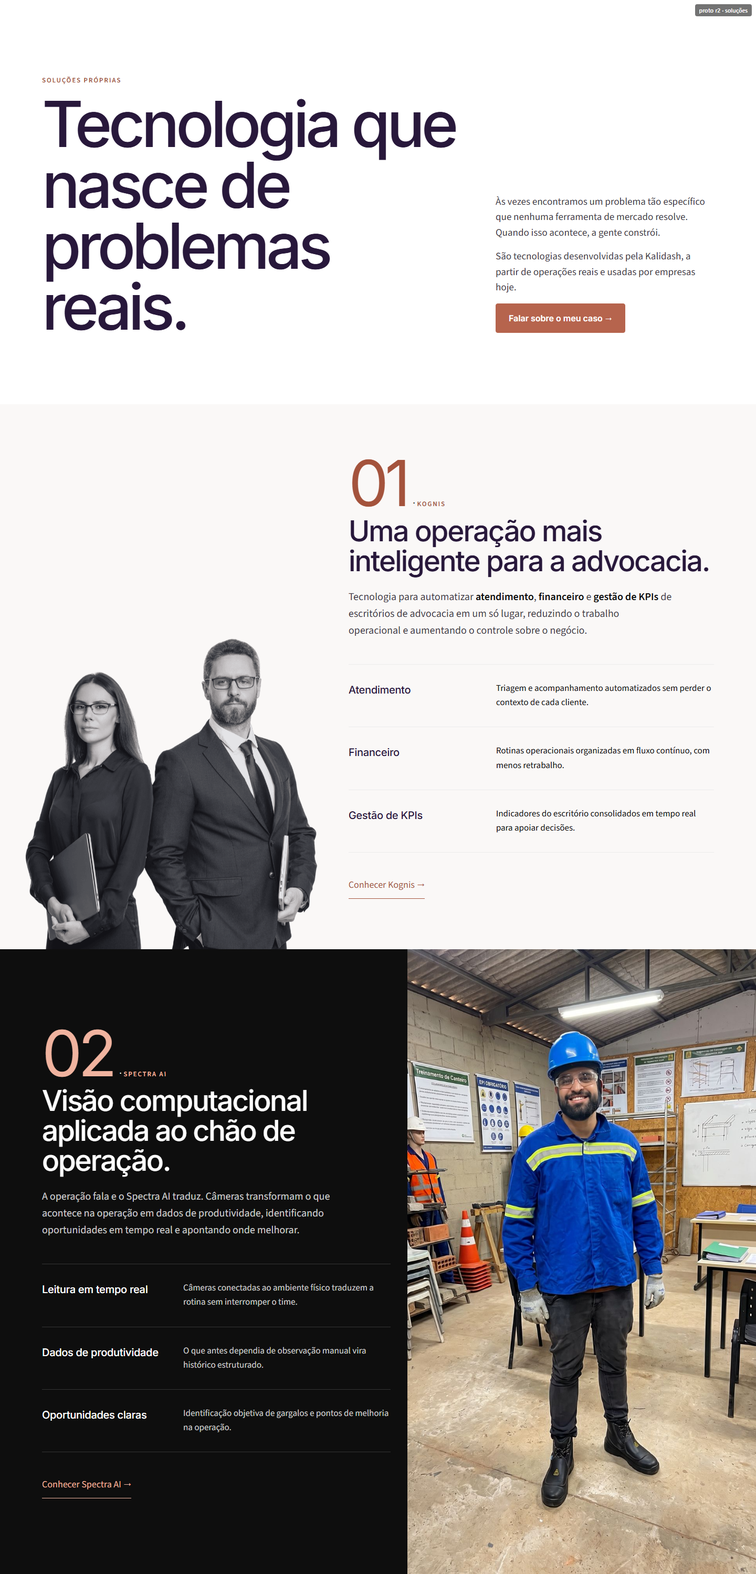
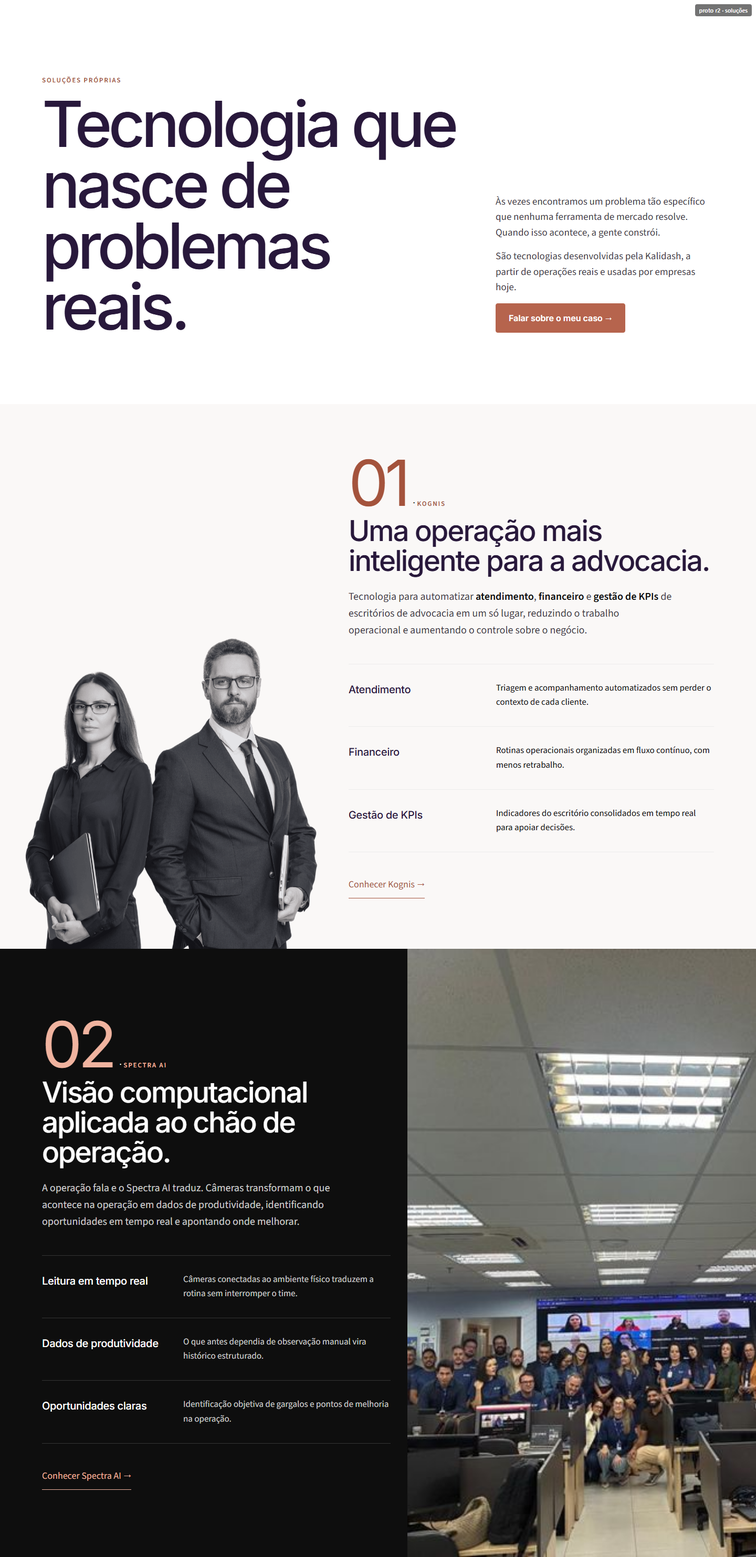
docs(po): D1 rodada 2.1 - slots opcionais sem tela, Spectra com outra foto, historia do Sobre nos refeita

diff --git a/docs/po/design/proto/01-sobre-nos.html b/docs/po/design/proto/01-sobre-nos.html
@@ -20,6 +20,27 @@
   .act .p { display: grid; gap: var(--s-2); align-content: start; }
   .lema { margin-top: var(--s-5); padding-top: var(--s-4); border-top: 1px solid var(--c-rule-strong); text-wrap: balance; }
 
+
+  /* história r2.1: três atos com três layouts diferentes + mosaico grande e irregular */
+  .a1 { display: grid; grid-template-columns: minmax(0,5fr) minmax(0,7fr); gap: clamp(32px,6vw,96px); align-items: center; padding-top: var(--s-5); padding-bottom: var(--pad-y); }
+  .a1-photo { aspect-ratio: 4/5.6; max-height: 760px; box-shadow: var(--shadow-lift); }
+  .a1-copy { display: grid; gap: var(--s-2); }
+  .a1-copy h3 { font-size: clamp(30px,3.4vw,48px); line-height: 1.08; letter-spacing: var(--ls-title); margin-top: var(--s-1); }
+  .a2 { background: var(--c-warm); padding: var(--pad-y) 0; }
+  .a2 h3 { margin-top: var(--s-3); max-width: 20ch; text-wrap: balance; }
+  .a2-cols { display: grid; grid-template-columns: minmax(0,1fr) minmax(0,1fr); gap: var(--s-6); margin-top: var(--s-6); max-width: 960px; }
+  .a3 { padding-top: var(--pad-y); }
+  .a3-copy { display: grid; grid-template-columns: minmax(0,4fr) minmax(0,8fr); gap: var(--s-2) var(--gutter-col); }
+  .a3-copy .meta { grid-column: 1 / -1; }
+  .a3-copy h3 { font-size: clamp(28px,3vw,42px); line-height: 1.1; letter-spacing: var(--ls-title); grid-column: 2; }
+  .a3-copy .body-2 { grid-column: 2; }
+  .mosaic { display: grid; grid-template-columns: repeat(12, 1fr); grid-auto-rows: clamp(70px, 9vw, 130px); gap: 14px; margin-top: var(--s-6); }
+  .m1 { grid-column: 1 / 8; grid-row: 1 / 5; } .m2 { grid-column: 8 / 13; grid-row: 1 / 3; } .m3 { grid-column: 8 / 13; grid-row: 3 / 7; }
+  .m4 { grid-column: 1 / 5; grid-row: 5 / 9; } .m5 { grid-column: 5 / 8; grid-row: 5 / 7; } .m6 { grid-column: 5 / 13; grid-row: 7 / 9; }
+  .cap-fig { margin-top: var(--s-2); }
+  .lema-poster { font-family: var(--f-title); font-weight: 500; font-size: var(--t-poster); line-height: .98; letter-spacing: -0.055em; color: var(--c-title); max-width: 14ch; text-wrap: balance; padding: var(--pad-y) 0; }
+  @media (max-width: 760px) { .a1, .a3-copy, .a2-cols { grid-template-columns: minmax(0,1fr); } .a3-copy h3, .a3-copy .body-2 { grid-column: 1; } .a1-photo { aspect-ratio: 4/5; } .mosaic { grid-auto-rows: 54px; gap: 8px; } }
+
   /* credo: números gigantes, sem hairline */
   .credo { display: grid; grid-template-columns: minmax(0,3fr) minmax(0,9fr); gap: 0 var(--gutter-col); align-items: baseline; margin-top: var(--s-6); }
   .credo .n { font-family: var(--f-title); font-size: var(--t-poster); line-height: 1; letter-spacing: -0.06em; color: var(--c-brand-text); font-variant-numeric: tabular-nums; }
@@ -54,25 +75,44 @@
 </section>
 <section class="wrap intro" data-sec="intro"><p class="lead">Antes de fundar a Kalidash, passamos 10 anos dentro de operações grandes, manuais e de margem apertada. Sabemos o que é ter que entregar resultado com o time e as ferramentas que se tem.</p></section>
 
-<section class="wrap" style="padding-bottom:var(--pad-y)" data-sec="timeline">
-  <div class="caption"><span class="meta">Nossa história</span></div>
-  <div class="collage" role="group">
-    <figure class="photo c1"><img src="../../../../apps/site/public/sobre-nos/ato-01-operacao.jpg" alt="César Germano no chão de operação usando equipamento de proteção"></figure>
-    <figure class="photo c2"><img src="../../../../apps/site/public/sobre-nos/ato-04-ensino.jpg" alt="Formação de executivos e líderes em sala de aula"></figure>
-    <figure class="photo c3"><img src="../../../../apps/site/public/home/evento-palestra.jpg" alt="Palestra executiva para lideranças"></figure>
-    <figure class="photo c4"><img src="../../../../apps/site/public/home/g17-fdc-tech-week-1.jpg" alt="Aula executiva na Fundação Dom Cabral"></figure>
-    <figure class="photo c5"><img src="../../../../apps/site/public/home/evento-sala.jpg" alt="Treinamento corporativo com foco em aplicação de IA"></figure>
-    <figure class="photo c6"><img src="../../../../apps/site/public/home/cooxupe.jpg" alt="Equipe Kalidash na Cooxupé"></figure>
-    <figure class="photo c7"><img src="../../../../apps/site/public/home/g21-cba-premio.jpg" alt="CBA e Kalidash no Prêmio Inovativos"></figure>
-  </div>
-  <p class="small" style="margin-top:var(--s-2)">Do chão de operação à formação executiva</p>
-  <div style="margin-top:var(--s-6)">
-    <article class="act"><div><p class="meta">O chão da operação</p></div><div class="p"><h3>Começamos como estagiários e técnicos na economia real: operações grandes, complexas e manuais.</h3><p class="body-2">Grandes empresas da economia real não são construídas em PowerPoint. São construídas por pessoas, processos complexos e decisões que precisam funcionar todos os dias.</p><p class="body-2">Foi ali que aprendemos que a transformação real não acontece em relatório de consultoria, acontece com quem opera o negócio.</p></div></article>
-    <article class="act"><div><p class="meta">A Kalidash</p></div><div class="p"><h3>Fundamos a Kalidash para levar inteligência e tecnologia ao trabalho real da economia real.</h3><p class="body-2">Conhecemos a dor de tentar implementar tecnologia onde ela mais atrapalha do que ajuda. A única mudança que funciona é a que o time de fato abraça e faz rodar.</p><p class="body-2"><strong>Não para substituir pessoas, mas para devolver a elas o tempo de pensar e produzir.</strong></p></div></article>
-    <article class="act"><div><p class="meta">Hoje</p></div><div class="p"><h3>Levamos cultura de IA e eficiência para operações como ArcelorMittal, CBA, Sicoob, Cooxupé e outras.</h3><p class="body-2">E ensinamos o que aplicamos nas maiores escolas de negócios e tecnologia do país.</p></div></article>
-    <p class="poster-sm lema" style="color:var(--c-title)">Nós ensinamos o que vivemos. E vivemos o que ensinamos.</p>
-  </div>
+<section data-sec="timeline">
+  <div class="wrap"><div class="caption"><span class="meta">Nossa história</span></div></div>
+
+  <!-- ato 1: foto de operação em retrato, escala grande, texto ao lado -->
+  <article class="wrap a1">
+    <figure class="photo a1-photo"><img src="../../../../apps/site/public/sobre-nos/ato-01-operacao.jpg" alt="César Germano no chão de operação usando equipamento de proteção"></figure>
+    <div class="a1-copy"><p class="meta">O chão da operação</p>
+      <h3>Começamos como estagiários e técnicos na economia real: operações grandes, complexas e manuais.</h3>
+      <p class="body-2">Grandes empresas da economia real não são construídas em PowerPoint. São construídas por pessoas, processos complexos e decisões que precisam funcionar todos os dias.</p>
+      <p class="body-2">Foi ali que aprendemos que a transformação real não acontece em relatório de consultoria, acontece com quem opera o negócio.</p></div>
+  </article>
+
+  <!-- ato 2: sem foto; a tese em escala de cartaz, parágrafos em duas colunas -->
+  <article class="a2"><div class="wrap">
+    <p class="meta">A Kalidash</p>
+    <h3 class="poster-sm">Fundamos a Kalidash para levar inteligência e tecnologia ao trabalho real da economia real.</h3>
+    <div class="a2-cols"><p class="body-2">Conhecemos a dor de tentar implementar tecnologia onde ela mais atrapalha do que ajuda. A única mudança que funciona é a que o time de fato abraça e faz rodar.</p>
+      <p class="body-2"><strong>Não para substituir pessoas, mas para devolver a elas o tempo de pensar e produzir.</strong></p></div>
+  </div></article>
+
+  <!-- ato 3: texto curto + mosaico grande e irregular -->
+  <article class="wrap a3">
+    <div class="a3-copy"><p class="meta">Hoje</p>
+      <h3>Levamos cultura de IA e eficiência para operações como ArcelorMittal, CBA, Sicoob, Cooxupé e outras.</h3>
+      <p class="body-2">E ensinamos o que aplicamos nas maiores escolas de negócios e tecnologia do país.</p></div>
+    <div class="mosaic" role="group">
+      <figure class="photo m1"><img src="../../../../apps/site/public/home/g21-cba-premio.jpg" alt="CBA e Kalidash no Prêmio Inovativos"></figure>
+      <figure class="photo m2"><img src="../../../../apps/site/public/sobre-nos/ato-04-ensino.jpg" alt="Formação de executivos e líderes em sala de aula"></figure>
+      <figure class="photo m3"><img src="../../../../apps/site/public/home/evento-palestra.jpg" alt="Palestra executiva para lideranças"></figure>
+      <figure class="photo m4"><img src="../../../../apps/site/public/home/g17-fdc-tech-week-1.jpg" alt="Aula executiva na Fundação Dom Cabral"></figure>
+      <figure class="photo m5"><img src="../../../../apps/site/public/home/evento-sala.jpg" alt="Treinamento corporativo com foco em aplicação de IA"></figure>
+      <figure class="photo m6"><img src="../../../../apps/site/public/home/cooxupe.jpg" alt="Equipe Kalidash na Cooxupé"></figure>
+    </div>
+    <p class="small cap-fig">Do chão de operação à formação executiva</p>
+  </article>
+  <div class="wrap"><p class="lema-poster">Nós ensinamos o que vivemos. E vivemos o que ensinamos.</p></div>
 </section>
+
 
 <section class="section warm" data-sec="beliefs"><div class="wrap">
   <div class="caption"><span class="meta">No que acreditamos</span></div>

diff --git a/docs/po/design/proto/02-kognis.html b/docs/po/design/proto/02-kognis.html
@@ -12,7 +12,11 @@
   .hero .sup { margin-top: var(--s-3); }
   .hero .btn { margin-top: var(--s-4); }
   .hero .cut { display: block; width: 118%; max-width: none; margin-left: -8%; margin-bottom: -1px; height: min(78vh, 760px); object-fit: contain; object-position: 60% 100%; }
-  .nums { padding: var(--s-7) 0; }
+  .nums { padding: var(--s-7) 0; position: relative; overflow: hidden; }
+  .nums .bg { position: absolute; inset: 0; width: 100%; height: 100%; object-fit: cover; object-position: 78% 40%; opacity: .6; }
+  .nums::after { content: ""; position: absolute; inset: 0; background: linear-gradient(90deg, #0e0e0e 38%, rgba(14,14,14,.15) 100%); }
+  .nums .wrap { position: relative; z-index: 1; }
+  .opt-slot.w169 { aspect-ratio: 16/9; } .opt-slot.p45 { aspect-ratio: 4/5; }
   .nums ul { display: grid; grid-template-columns: 1fr 1fr; gap: var(--s-6) var(--s-6); }
   .nums .fig2 { font-family: var(--f-title); font-weight: 500; font-size: var(--t-poster); line-height: 1; letter-spacing: -0.06em; font-variant-numeric: tabular-nums; white-space: nowrap; }
   .nums .small { margin-top: var(--s-2); font-size: 18px; max-width: 28ch; }
@@ -71,7 +75,7 @@
   <img class="cut" src="../../../../apps/site/public/kognis-heroes.png" alt="Kognis — Escritório de Advocacia Inteligente">
 </section>
 
-<section class="band-ink nums" data-sec="proofbar"><div class="wrap">
+<section class="band-ink nums" data-sec="proofbar"><img class="bg" src="../../../../apps/site/public/kalidash-motion-statue.jpg" alt="" aria-hidden="true"><div class="wrap">
   <ul aria-label="Resultados">
     <li><p class="fig2">8 horas</p><p class="small">semanais a menos em tarefas operacionais</p></li>
     <li><p class="fig2">3x</p><p class="small">mais rápido na resposta ao cliente no WhatsApp</p></li>
@@ -82,8 +86,8 @@
 
 <section class="section wrap" data-sec="cards-1">
   <div class="caption"><span class="meta">Soluções para escritórios de advocacia</span></div>
-  <h2 class="h2 head" style="max-width:24ch">Três problemas resolvidos. Uma plataforma.</h2>
-  <div class="slot w169 lift" data-slot="K1" data-label="K1 · tela real da plataforma (visão geral com indicadores). 16:9" style="margin-bottom:var(--head-gap)"></div>
+  <h2 class="poster-sm head" style="max-width:14ch;color:var(--c-title)">Três problemas resolvidos. Uma plataforma.</h2>
+  <div class="opt-slot w169 lift" data-slot="K1" data-label="K1 · encaixe opcional: tela real da plataforma, 16:9" style="margin-bottom:var(--head-gap)"></div>
   <ul class="ruled tbl">
     <li><span class="num">01</span><h3>Agentes de IA</h3><p>Agentes que vendem e atendem pelo WhatsApp, 24 horas por dia. Qualificam leads, agendam reuniões e respondem seus clientes sobre o andamento dos processos na hora.</p><p class="ex">Central de atendimento com histórico de conversas, filas e painel de performance.</p></li>
     <li><span class="num">02</span><h3>Conciliação Bancária</h3><p>Conecta direto nos seus bancos. Contas a pagar e receber se conciliam sozinhas, e a divisão de honorários entre sócios sai sem discussão e sem erro.</p><p class="ex">Você abre o painel e o financeiro já está fechado.</p></li>
@@ -93,7 +97,7 @@
 
 <section class="section warm" data-sec="cards-2"><div class="wrap sticky2">
   <div class="left"><div class="caption"><span class="meta">Atendimento Inteligente 24h</span></div><h2 class="h2">Seu escritório atendendo 24h. Sem contratar ninguém.</h2>
-    <div class="slot p45" data-slot="K2" data-label="K2 · tela real do atendimento no WhatsApp (fila + conversa). 4:5" style="margin-top:var(--s-5);max-width:300px"></div></div>
+    <div class="opt-slot p45" data-slot="K2" data-label="K2 · encaixe opcional: tela real do atendimento, 4:5" style="margin-top:var(--s-5);max-width:300px"></div></div>
   <div>
     <div class="item"><h3>Venda e pré-atendimento</h3><p class="body-2">Qualifica quem chega pelo WhatsApp e já agenda a reunião diretamente pra você.</p></div>
     <div class="item"><h3>Atendimento ao cliente</h3><p class="body-2">O cliente pergunta do processo dele e recebe a resposta com dados reais na hora.</p></div>
@@ -104,7 +108,7 @@
 <section class="section wrap" data-sec="cards-3">
   <div class="caption"><span class="meta">Controle Financeiro</span></div>
   <h2 class="h3 head" style="max-width:32ch;font-size:var(--t-h3)">Seu financeiro fechando sozinho. Sem erro, sem retrabalho.</h2>
-  <div class="slot w169" data-slot="K3" data-label="K3 · tela real do painel financeiro (conciliação e honorários). 16:9" style="margin-bottom:var(--head-gap)"></div>
+  <div class="opt-slot w169" data-slot="K3" data-label="K3 · encaixe opcional: tela real do painel financeiro, 16:9" style="margin-bottom:var(--head-gap)"></div>
   <div class="idx">
     <h3>Conciliação automática</h3><p>Conecta com os principais bancos do Brasil. Lançamentos batem com o sistema sem você precisar fazer nada.</p>
     <h3>Divisão de honorários</h3><p>Define as regras uma vez. A divisão entre sócios sai certinha e sem discussão, caso a caso.</p>
@@ -133,4 +137,5 @@
     <details><summary>Preciso entender de tecnologia para usar?</summary><p>Não. A plataforma foi feita pra quem quer resultado, não pra quem entende de TI. Se você usa WhatsApp, sabe usar o que a gente entrega.</p></details>
   </div>
 </div></section>
+<script>if(location.hash==="#com-tela")document.body.classList.add("com-tela")</script>
 </body></html>

diff --git a/docs/po/design/proto/06-spectra.html b/docs/po/design/proto/06-spectra.html
@@ -13,7 +13,7 @@
   .hero .btn { margin-top: var(--s-4); }
   .hero .meta { color: var(--c-on-band-brand); }
   .hero .bleed-img { border-radius: 0; min-height: 520px; }
-  .hero .bleed-img img { object-position: 50% 25%; }
+  .hero .bleed-img img { object-position: 30% 88%; }
 
   /* três capacidades em escala de cartaz; ao passar/focar, as outras recuam (opacity 160ms) */
   .poster-list li { padding: var(--s-3) 0; display: grid; grid-template-columns: minmax(0,7fr) minmax(0,5fr); gap: var(--gutter-col); align-items: end; border-top: 2px solid var(--c-title); transition: opacity 160ms ease; }
@@ -22,6 +22,7 @@
   .poster-list:hover li:not(:hover), .poster-list:focus-within li:not(:focus-within) { opacity: .45; }
   .poster-list li { outline: none; }
   .head { margin-bottom: var(--head-gap); }
+  .opt-slot.w169 { aspect-ratio: 16/9; }
   @media (max-width: 760px) { .hero, .poster-list li { grid-template-columns: minmax(0,1fr); } .hero .copy { padding: var(--s-6) 24px; } .hero .bleed-img { min-height: 420px; } }
 </style></head>
 <body>
@@ -35,17 +36,18 @@
     <p class="sup">Leitura visual em tempo real sem interromper o time e sem alterar o fluxo de trabalho.</p>
     <a class="btn" href="#">Conhecer Spectra AI →</a>
   </div>
-  <figure class="bleed-img"><img src="../../../../apps/site/public/sobre-nos/ato-01-operacao.jpg" alt="Spectra AI visão computacional na operação"></figure>
+  <figure class="bleed-img"><img src="../../../../apps/site/public/home/g10-agir.jpg" alt="Spectra AI visão computacional na operação"></figure>
 </section>
 
 <section class="section wrap" data-sec="cards">
   <div class="caption"><span class="meta">O que faz</span></div>
   <h2 class="h3 head" style="font-size:var(--t-h3);max-width:34ch">Transforme o que acontece na operação em dados objetivos.</h2>
-  <div class="slot w169 lift" data-slot="S1" data-label="S1 · imagem real do Spectra: frame de câmera com a leitura sobreposta OU painel de produtividade. 16:9" style="margin-bottom:var(--head-gap)"></div>
+  <div class="opt-slot w169 lift" data-slot="S1" data-label="S1 · encaixe opcional: imagem real do Spectra (frame de câmera com a leitura, ou painel), 16:9" style="margin-bottom:var(--head-gap)"></div>
   <ul class="poster-list">
     <li tabindex="0"><h3>Leitura em tempo real</h3><p>Câmeras conectadas ao ambiente físico traduzem a rotina sem interromper o time.</p></li>
     <li tabindex="0"><h3>Dados de produtividade</h3><p>O que antes dependia de observação manual vira histórico estruturado.</p></li>
     <li tabindex="0"><h3>Oportunidades claras</h3><p>Identificação objetiva de gargalos e pontos de melhoria na operação.</p></li>
   </ul>
 </section>
+<script>if(location.hash==="#com-tela")document.body.classList.add("com-tela")</script>
 </body></html>

diff --git a/docs/po/design/proto/10-solucoes.html b/docs/po/design/proto/10-solucoes.html
@@ -35,7 +35,7 @@
   .o2 .link { color: var(--c-on-band-brand); border-color: var(--c-on-band-brand); }
   .o2 .meta { color: var(--c-on-band-brand); }
   .o2 .bleed-img { min-height: 640px; border-radius: 0; }
-  .o2 .bleed-img img { object-position: 50% 30%; }
+  .o2 .bleed-img img { object-position: 30% 100%; }
   .marker { display: block; } .marker .idx-num { margin-right: var(--s-1); }
   .idx-num { font-family: var(--f-title); font-size: var(--t-poster); line-height: .9; letter-spacing: -0.06em; color: var(--c-brand-text); }
   .o2 .idx-num { color: var(--c-on-band-brand); }
@@ -64,6 +64,6 @@
     <p class="body-2 tx">A operação fala e o Spectra AI traduz. Câmeras transformam o que acontece na operação em dados de produtividade, identificando oportunidades em tempo real e apontando onde melhorar.</p>
     <ul class="ruled feat"><li><h3>Leitura em tempo real</h3><p>Câmeras conectadas ao ambiente físico traduzem a rotina sem interromper o time.</p></li><li><h3>Dados de produtividade</h3><p>O que antes dependia de observação manual vira histórico estruturado.</p></li><li><h3>Oportunidades claras</h3><p>Identificação objetiva de gargalos e pontos de melhoria na operação.</p></li></ul>
     <a class="link" href="#">Conhecer Spectra AI →</a></div>
-  <figure class="bleed-img"><img src="../../../../apps/site/public/sobre-nos/ato-01-operacao.jpg" alt="Spectra AI visão computacional na operação"></figure>
+  <figure class="bleed-img"><img src="../../../../apps/site/public/home/g10-agir.jpg" alt="Spectra AI visão computacional na operação"></figure>
 </div></section>
 </body></html>

diff --git a/docs/po/design/proto/proto.css b/docs/po/design/proto/proto.css
@@ -62,3 +62,8 @@ a { color: inherit; }
 .slot { position: relative; display: grid; place-items: center; border: 1px dashed var(--c-rule-strong); border-radius: var(--r-surface); background: repeating-linear-gradient(135deg, #fff 0 12px, var(--c-warm) 12px 24px); color: var(--c-text-3); font: 600 13px/1.4 var(--f-title); text-align: center; padding: var(--s-3); }
 .slot::after { content: attr(data-label); max-width: 36ch; }
 .slot.w169 { aspect-ratio: 16/9; } .slot.w1610 { aspect-ratio: 16/10; } .slot.p45 { aspect-ratio: 4/5; }
+
+/* slot opcional: escondido por padrão ("sem tela"); com #com-tela mostra um bloco NEUTRO de encaixe (não é tela real) */
+.opt-slot { display: none; }
+body.com-tela .opt-slot { display: grid; border: 1px solid var(--c-rule-strong); background: #e9e6e3; border-radius: var(--r-surface); place-items: center; color: var(--c-text-3); font: 600 13px/1.4 var(--f-title); text-align: center; padding: var(--s-3); }
+body.com-tela .opt-slot::after { content: attr(data-label); max-width: 34ch; }

diff --git a/docs/po/design/proto/estados-spectra.html b/docs/po/design/proto/estados-spectra.html
@@ -1,0 +1,1 @@
+<body style="margin:0;background:#888;display:grid;grid-template-columns:1fr 1fr;gap:12px;font:600 20px system-ui;color:#fff"><div><p style="margin:8px">SEM TELA (estado inicial, vai ao ar assim)</p><img src="../depois/06-spectra-sem-tela-1440.png" style="width:100%;display:block"></div><div><p style="margin:8px">COM TELA (encaixe opcional; bloco cinza = exemplo, NÃO é tela real)</p><img src="../depois/06-spectra-com-tela-1440.png" style="width:100%;display:block"></div></body>

diff --git a/docs/po/design/proto/estados-kognis.html b/docs/po/design/proto/estados-kognis.html
@@ -1,0 +1,1 @@
+<body style="margin:0;background:#888;display:grid;grid-template-columns:1fr 1fr;gap:12px;font:600 20px system-ui;color:#fff"><div><p style="margin:8px">SEM TELA (estado inicial, vai ao ar assim)</p><img src="../depois/02-kognis-sem-tela-1440.png" style="width:100%;display:block"></div><div><p style="margin:8px">COM TELA (encaixe opcional; bloco cinza = exemplo, NÃO é tela real)</p><img src="../depois/02-kognis-com-tela-1440.png" style="width:100%;display:block"></div></body>

diff --git a/docs/po/design/01-institucionais.md b/docs/po/design/01-institucionais.md
@@ -22,13 +22,13 @@
 
 | Página | Assinatura | Sequência de padrões (nenhum igual ao vizinho) | Fotos grandes (arquivo · escala · corte) | Faixa de cor e função | Micro-movimento |
 |---|---|---|---|---|---|
-| **Sobre nós** | **Foto dos fundadores sangrando a tela**, "Já estivemos do seu lado da mesa." a 128px sobreposto (véu de baixo para cima) | bleed → texto 5/7 → colagem + atos em régua (**a única**) → credo em **números gigantes** (warm) → foto do time 8/12 + coluna → faixa escura com números de 168px | `founders-studio.jpg` 100vw × min(88vh, 780px), corte 50% 30% · `time-kalidash.jpg` 8/12 em 4:3 · colagem das 7 fotos | escura só na prova (`+10 mil`, `170`, `Parceira`, `Finalista`): é a credencial | foto do hero desliza ±32px com `scale(1.12)` fixo, ligada à rolagem (`cover 0–100%`); sem duração própria |
+| **Sobre nós** | **Foto dos fundadores sangrando a tela**, "Já estivemos do seu lado da mesa." a 128px sobreposto (véu de baixo para cima) | bleed → texto 5/7 → **história em 3 layouts diferentes** (ato 1: retrato 5/12 + texto; ato 2: tese em cartaz sobre warm, sem foto; ato 3: mosaico grande e irregular) → lema de cartaz → credo em **números gigantes** (warm) → foto do time 8/12 + coluna → faixa escura com números de 168px (nenhuma régua na página) | `founders-studio.jpg` 100vw × min(88vh, 780px), corte 50% 30% · `ato-01-operacao.jpg` 5/12 em 4:5,6 (ato 1) · mosaico de 6 fotos em 12 colunas, 130px por linha, m1 de 7 col × 4 linhas · `time-kalidash.jpg` 8/12 em 4:3 | escura só na prova (`+10 mil`, `170`, `Parceira`, `Finalista`): é a credencial | foto do hero desliza ±32px com `scale(1.12)` fixo, ligada à rolagem (`cover 0–100%`); sem duração própria |
 | **AI Culture** | **Faixa de foto sangrando com "Dois formatos…" a 128px** + números de cartaz sobre branco (sem faixa) | hero contido → números (`+10 mil`, `170` a 168px, filete de 2px) → warm com lema → passos em linha → bleed + formatos em linhas | `evento-sala.jpg` 4:5 (contida, hero) · `metodo-reuniao.jpg` 100vw × min(72vh, 640px), corte 50% 45% | nenhuma faixa de cor; `warm` só na pausa do "por quê" | linha dos passos desenha (`scaleX .35→1`, `entry 10% – cover 45%`) |
 | **Advisory** | **Faixa quente com o lema** "Não entregamos um plano. Acompanhamos o que acontece depois dele." a 128px | hero (foto 7/12 à direita) → "E agora?" → **faixa quente** → coluna sticky + frases de 44px → rituais em números gigantes (warm) → passos em linha → critérios em régua (**a única**, warm) → FAQ | `metodo-reuniao.jpg` 7/12 sangrando à direita, min-height min(86vh, 720px), corte 62% 50% | quente (`#b6644d`) só no lema: é a tese da página | o lema sobe 40px→0 na entrada (`entry 0–80%`) |
 | **Execução** | **Índice em escala de cartaz** (os 5 nomes a 88px) + faixa escura com `+100 · 170 · 12 horas` a 128px | hero (retrato sangrando à direita) → lema "É aí que a Kalidash entra." a 128px → índice → passos em linha → faixa escura → caso com foto sangrando à esquerda → régua com os 2 produtos (**a única**) | `front-3-entrega.jpg` 5/12 sangrando · `g21-cba-premio.jpg` 7/12 em 4:3 sangrando à esquerda | escura nos números: é a prova | a foto do caso faz zoom `1.08→1` (`entry 0 – cover 55%`) |
 | **Soluções** | **Dois painéis cheios, um claro e um escuro:** os advogados recortados em pé na base do painel claro; a foto do Spectra em 6/12 sangrando no escuro | manchete 128px (abertura à la Mistral) → painel claro (Kognis) → painel escuro (Spectra) | `kognis-heroes.png` ~800px de altura, apoiado na borda · `ato-01-operacao.jpg` 6/12 sangrando, corte 50% 30% | escura só no Spectra (produto de chão de fábrica); claro (`warm`) no Kognis | o recorte dos advogados sobe 40px→0 na entrada |
-| **Kognis** | **Os advogados em pé sobre a faixa escura** com os 4 números a 128px (`8 horas`, `3x`, `+90%`, `100%`) | hero (recorte) → faixa escura → tabela em régua (**a única**) → coluna sticky + itens (warm) → índice de cartaz (financeiro) → passos em linha (warm) → FAQ com título sticky | `kognis-heroes.png` ~760px de altura sobre o filete da faixa + espaços **K1–K3 reservados** (§4.8) | escura nos números: é a prova | linha dos passos desenha (`scaleX .35→1`) |
-| **Spectra** | **Tela dividida em altura cheia:** texto sobre escuro à esquerda, a foto real do chão de operação ocupando a metade direita | split → [S1 reservado] → lista de 3 capacidades em cartaz (56–88px) | `ato-01-operacao.jpg` 50vw × min(92vh, 820px), corte 50% 25% | escura no hero: é a abertura | ao passar/focar um item, os outros recuam a `opacity .45` em 160ms (hover/foco; não depende de rolagem) |
+| **Kognis** | **Os advogados em pé sobre a faixa escura** com os 4 números a 128px (`8 horas`, `3x`, `+90%`, `100%`) | hero (recorte) → faixa escura → título de cartaz + tabela em régua (**a única**) → coluna sticky + itens (warm) → índice de cartaz (financeiro) → passos em linha (warm) → FAQ com título sticky | `kognis-heroes.png` ~760px de altura sobre o filete da faixa · `kalidash-motion-statue.jpg` (busto em preto e branco, arte da marca que já existe em `public/`) 100% da faixa, à direita, sob véu; **K1–K3 são opcionais e não aparecem sem tela** (§4.8) | escura nos números: é a prova | linha dos passos desenha (`scaleX .35→1`) |
+| **Spectra** | **Tela dividida em altura cheia:** texto sobre escuro à esquerda, a foto real do chão de operação ocupando a metade direita | split → lista de 3 capacidades em cartaz (56–88px); [S1 opcional, só com imagem] | **`g10-agir.jpg`** (sala de operação com telas, hoje na Home) 50vw × min(92vh, 820px), corte 30% 88%; o retrato do operário **sai** da página (ver §0.5) | escura no hero: é a abertura | ao passar/focar um item, os outros recuam a `opacity .45` em 160ms (hover/foco; não depende de rolagem) |
 
 Escala de títulos usada (cada página tem os três níveis): cartaz = h1 de hero, lemas, números e nomes do índice; seção = `--t-h2` nos títulos principais; subordinado = `--t-h3` em seções de apoio (a abertura do credo no Sobre nós, "O que faz" no Spectra, o financeiro no Kognis, o problema na Execução).
 
@@ -38,15 +38,23 @@ Critério: *"se eu rolasse esta página por 10 segundos, algo me pararia?"* — 
 
 | Página | Antes | Depois | Por quê (e o que ainda segura a nota) |
 |---|---|---|---|
-| Sobre nós | 3 | **7,5** | Hero sangrado com o rosto dos fundadores, credo e prova em números enormes. Segura: a colagem de 7 fotos continua pequena; os atos em régua ainda são texto sobre branco. |
+| Sobre nós | 3 | **8** | Hero sangrado, história em três layouts (retrato, tese em cartaz, mosaico grande), credo e prova em números enormes. Segura: o ato 2 é só tipo; a foto do ato 1 ocupa pouco depois do hero. |
 | AI Culture | 3 | **6,5** | Faixa de foto com título de cartaz e números de 168px. Segura: o hero continua contido e é a página com mais branco; só uma foto grande. |
 | Advisory | 2 | **7,5** | A faixa quente é o momento memorável da página; numerais de 128px nos rituais. Segura: sem produto ou número real; sete seções de tipo. |
 | Execução | 3 | **7** | Índice de cartaz e faixa escura com `12 horas`. Segura: o hero tem uma foto de palco sem relação direta com "execução"; a régua final é fria. |
 | Soluções | 2 | **7,5** | Dois painéis cheios, claro/escuro, produto em escala grande. Segura: o painel escuro mostra um operário, não o produto. |
-| Kognis | 2 | **6** | Advogados sobre a faixa escura e números de 128px. Segura: **os espaços K1–K3 estão vazios** (sem telas) e o miolo da página é tipo sobre branco; sem as telas, o teto é 6–6,5. Com as telas reais, estimo 7,5–8 (palpite). |
-| Spectra | 2 | **6,5** | Tela dividida com foto de altura cheia, lista em cartaz com hover. Segura: **S1 vazio**, página curta, uma foto só (a mesma da Soluções e do Sobre nós). |
+| Kognis | 2 | **6,5** | Advogados sobre a faixa escura com o busto da marca atrás dos números de 128px; título de seção em cartaz. Sem caixas vazias: **a versão sem tela é o layout principal**. Segura: o miolo continua tipo sobre branco/warm; só uma foto de pessoas. Com telas reais (K1–K3), estimo 7,5–8 (palpite). |
+| Spectra | 2 | **6,5** | Tela dividida com foto de altura cheia (sala de operação), lista em cartaz com hover. Sem caixa vazia. Segura: página curta, só uma foto, sem número nem produto à vista; sem S1, o teto é este. |
 
 Limites desta nota: eu mesmo a atribuo, a partir de PNGs estáticos; **não vi o movimento acontecendo** (scroll-driven animations só testadas por estarem declaradas e por não quebrarem a captura), e nenhuma página foi vista no navegador real do dono.
+
+### 0.5 Rodada 2.1 (PO 8,5 → 9): três correções
+
+**1. Kognis e Spectra sem caixas tracejadas.** A versão **sem tela** é o layout principal e a que vai ao ar; a tela é um **slot opcional** que, se existir, entra sem remontar a página. Os dois estados estão em PNG: [estados-kognis.png](comparativo/estados-kognis.png) e [estados-spectra.png](comparativo/estados-spectra.png) (esquerda: sem tela; direita: com tela, com um bloco cinza neutro que é só **exemplo de encaixe, não é tela real**). O Kognis ganha peso sem tela por: advogados em escala grande sobre a faixa de números, busto da marca (`kalidash-motion-statue.jpg`, já em `public/`) atrás dos números, título de seção em cartaz (88px), tabela e índice em tipo grande. Contrato do slot em §4.8.
+
+**2. Spectra sem o retrato do operário.** O hero do Spectra reutilizava `ato-01-operacao.jpg`, que também está na colagem do Sobre nós e na oferta de Soluções. Proponho **`home/g10-agir.jpg`**: foto real de uma sala de operação com fileiras de estações e um painel grande, já usada na Home (a Agir é cliente). Mostra "o chão de operação" com telas e câmeras no teto, o contexto onde o Spectra roda, e não repete rosto nenhum de outra página. Tratamento: metade direita da tela dividida, corte à esquerda-baixo (30% 88%) para pegar as pessoas e o painel e deixar o forro de fora. **Decisões para o PO:** (a) trocar `src` do hero do Spectra (o checklist 3.1 só permite trocar imagem com decisão do PO); mantenho o **mesmo `alt`** ("Spectra AI visão computacional na operação"), então nenhuma string muda; (b) se o PO preferir não trocar, o fallback é manter `ato-01-operacao.jpg` com **recorte fechado** no capacete e no quadro de EPI (zoom ~2,2x, 4:5, sem o corpo inteiro), que deixa de repetir o retrato. O arquivo `ato-01` fica só no ato 1 do Sobre nós. Em `/solucoes` a oferta 02 usa a mesma `g10-agir` (protótipo `10-solucoes` alinhado). **Atenção:** em `pages.ts` as ofertas de Soluções **não têm imagem**; as duas fotos do protótipo (recorte do Kognis e `g10-agir`) são mídia nova na página e precisam de `alt`; sugiro reaproveitar os alts que já existem para cada produto ("Kognis — Escritório de Advocacia Inteligente" e "Spectra AI visão computacional na operação"), sem texto novo.
+
+**3. Sobre nós: "Nossa história".** O mosaico pequeno + 3 atos em régua virou três layouts: **ato 1** retrato de operação em 5/12 (4:5,6, sombra de foto-herói) com o texto ao lado; **ato 2** a tese em escala de cartaz sobre fundo warm, parágrafos em duas colunas, sem foto; **ato 3** texto curto à direita e **mosaico grande e irregular** (6 fotos em 12 colunas, a do prêmio CBA em 7×4, as outras em alturas e larguras diferentes), com a legenda "Do chão de operação à formação executiva"; fecha o lema em escala de cartaz (128px, 4 linhas). Nenhuma régua restante na página. **Nota de implementação:** a ordem de `mosaic.items` decide a distribuição (item 1 = ato 1, itens 2–7 = mosaico do ato 3), mudança só de estrutura. Capturas: [depois/01-historia-1440.png](depois/01-historia-1440.png) e [depois/01-historia-390.png](depois/01-historia-390.png).
 
 ### 0.4 Auditoria dos protótipos r2 contra `tells.md`
 
@@ -279,7 +287,7 @@ Risco: o botão do hero diz "Conhecer Spectra AI" mas leva ao diagnóstico (mesm
 
 ### 4.8 Espaços de objeto reservados (Kognis e Spectra)
 
-Decisão do PO (31/10): o dono ainda não tem os prints (pediu à Carol). A direção **reserva o lugar e descreve o que entra**; nada é inventado. Nos protótipos ([02-kognis](proto/02-kognis.html), [06-spectra](proto/06-spectra.html)) cada espaço é um bloco tracejado com o rótulo gerado por CSS (`data-label`), que **não é copy** e não entra no `copy-check`. Capturas: [Spectra](proto/shots/06-cards-1440.png), [Kognis atendimento](proto/shots/02-cards-2-1440.png).
+Decisão do PO (31/10): o dono ainda não tem os prints (pediu à Carol). A direção **descreve o que entra e onde**, mas **o estado inicial, que vai ao ar, é SEM tela e sem nenhum bloco no lugar** (rodada 2.1). Nos protótipos ([02-kognis](proto/02-kognis.html), [06-spectra](proto/06-spectra.html)) o slot é `display: none` e só aparece com `#com-tela` na URL, como bloco cinza neutro rotulado por CSS (`data-label`, **não é copy**, fora do `copy-check`). Os dois estados em PNG: [Kognis](comparativo/estados-kognis.png) e [Spectra](comparativo/estados-spectra.png). Itens 5 abaixo: o bloco é opcional (`image?`) e a ausência não deixa buraco nem muda o resto do layout.
 
 | Id | Onde (página · seção, ordem de `pages.ts` preservada) | O que entra | Formato | Tratamento |
 |---|---|---|---|---|

diff --git a/docs/po/relatorios/d0-d1-direcao.md b/docs/po/relatorios/d0-d1-direcao.md
@@ -1,6 +1,36 @@
-# Relatório D0 + D1: direção das páginas institucionais (v3, rodada 2: vida)
+# Relatório D0 + D1: direção das páginas institucionais (v4, rodada 2.1)
 
 > Designer. v1 entregue 31/10 (nota do PO 8,0); esta v2 fecha as correções a–e. Nada em `apps/site` foi editado; só `docs/po/design/` e `docs/po/relatorios/`.
+
+## Rodada 2.1 (PO 8,5 → 9): o que mudou
+
+| Pedido | Estado | Evidência |
+|---|---|---|
+| (1) Kognis e Spectra: layout principal **sem tela**; tela como slot opcional; mostrar os dois estados | ✅ | Slots viraram `opt-slot`: `display: none` por padrão, só aparecem com `#com-tela`. PNGs dos dois estados: `design/comparativo/estados-kognis.png` e `estados-spectra.png` (+ páginas inteiras em `design/depois/*-sem-tela-1440.png`, `*-com-tela-1440.png`). Sem caixas tracejadas em nenhum estado. O bloco cinza do estado "com tela" é só exemplo de encaixe e está rotulado assim. Contrato (`image?`, sem buraco quando ausente) em `01-institucionais.md` §4.8 |
+| (1b) A página sem tela carrega sozinha | ⚠ | Kognis: advogados em escala grande sobre a faixa de números, **busto em preto e branco da marca atrás dos números** (`kalidash-motion-statue.jpg`, já em `public/`), título de seção em escala de cartaz. Spectra: hero dividido com foto real + lista em cartaz. A nota de vida sobe pouco (Kognis 6→6,5; Spectra 6,5): sem tela, essas duas páginas continuam as mais fracas |
+| (2) Spectra reutilizava o retrato do operário | ✅ proposta, 🟡 depende do PO | Proposta: **`home/g10-agir.jpg`** (sala de operação com estações e painel grande, já na Home), mesmo `alt` ("Spectra AI visão computacional na operação"). Fallback: manter `ato-01-operacao.jpg` com recorte fechado no capacete e no quadro de EPI. Trocar `src` editorial exige decisão do PO (checklist 3.1). Soluções acompanhou a troca no protótipo; em `pages.ts` as ofertas de Soluções **não têm imagem**, então as duas fotos de lá são mídia nova e precisam de `alt` (sugiro reusar os existentes) |
+| (3) Sobre nós: "Nossa história" | ✅ | Três layouts: ato 1 retrato 5/12 + texto; ato 2 tese em cartaz sobre warm, sem foto; ato 3 mosaico grande e irregular (6 fotos, a do prêmio em 7×4 colunas) + lema de 128px. Nenhuma régua restante. Capturas `design/depois/01-historia-1440.png` e `01-historia-390.png` (vistas) |
+| Copy idêntica, `copy-check` | ✅ | 0 linhas extras nos 7 protótipos, 100% de cobertura (saída abaixo) |
+| `overflow-check` | ✅ | 28 de 28 sem overflow |
+| Relatório e commit | ✅ | este arquivo; commit no resumo da sessão |
+
+`node docs/po/design/proto/copy-check.mjs` (exit 0):
+
+```
+OK  01-sobre-nos.html: 45 linhas, extras=0, só-no-código=0, cobertura da baseline=45/45 (100%)
+OK  02-kognis.html: 59 linhas, extras=0, só-no-código=1, cobertura da baseline=58/58 (100%)
+OK  03-advisory.html: 52 linhas, extras=0, só-no-código=1, cobertura da baseline=50/50 (100%)
+OK  04-execucao.html: 56 linhas, extras=0, só-no-código=0, cobertura da baseline=55/55 (100%)
+OK  10-solucoes.html: 25 linhas, extras=0, só-no-código=0, cobertura da baseline=25/25 (100%)
+OK  05-ai-culture.html: 42 linhas, extras=0, só-no-código=0, cobertura da baseline=41/41 (100%)
+OK  06-spectra.html: 13 linhas, extras=0, só-no-código=0, cobertura da baseline=13/13 (100%)
+```
+
+`overflow-check`: 28 linhas `ok` para 01–06 e 10 (390/768/1024/1440), nenhuma `OVERFLOW`.
+
+**Não verifiquei:** o estado "com tela" em 390 só foi capturado (`06-spectra-com-tela-390.png`), não aberto; o Kognis em 390 vi só o hero (rodada 2); nenhum movimento foi visto em ação; o corte do `g10-agir` na oferta de Soluções mostra bastante forro (ajuste fino de `object-position` fica para o B4). **Riscos novos:** (a) o busto do Kognis é arte da marca da Home, reaproveitada: o PO deve confirmar que isso não conta como "segundo visual"; (b) `g10-agir` mostra parte do logotipo de um cliente (Agir) ao fundo, já público na Home, mas vale conferir a autorização de uso na página do Spectra.
+
+---
 
 ## Rodada 2 (vida): o que foi feito
 
